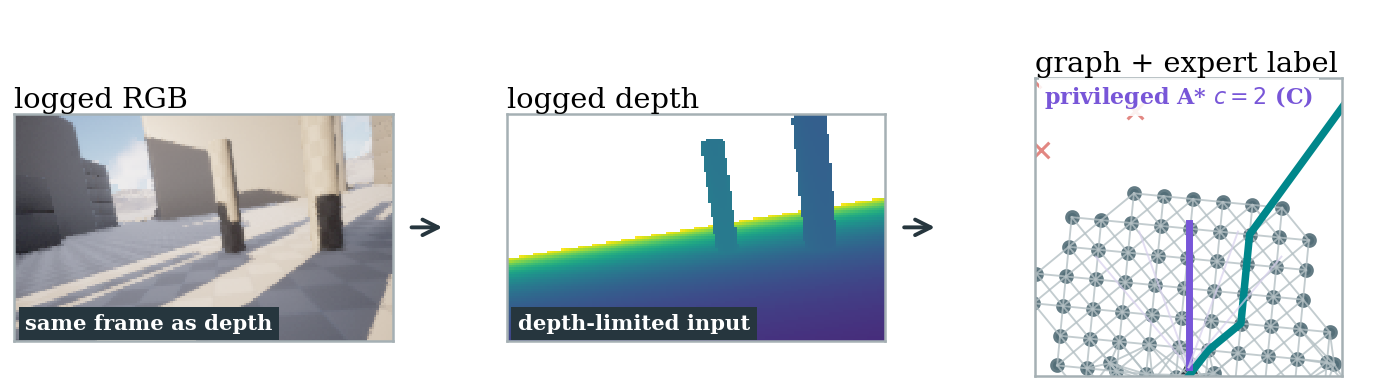
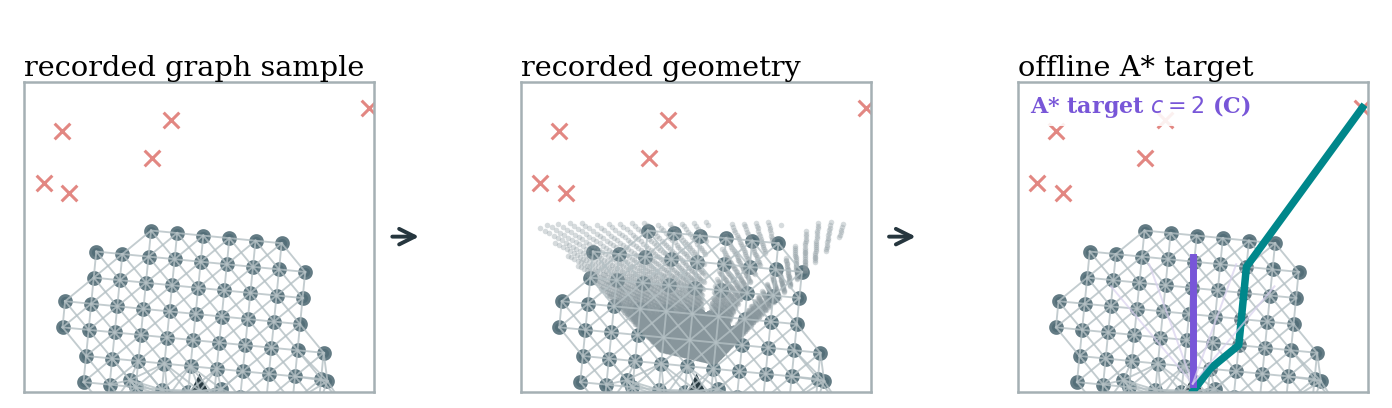
改进 GCN 训练数据图并补充真实点云与专家方向标签
- 将训练数据可视化从 RGB/深度截图调整为在线骨架、记录点云和专家方向标签的并列对照，突出部署输入与监督信号的关系。

- 为绘图脚本增加 ASCII PCD 解析、四元数姿态旋转和统一 XY 坐标范围，确保点云与拓扑图在同一物理尺度下显示。

- 更新生成的训练数据图，保持输出尺寸、字体和论文排版兼容，并继续排除候选图和运行时缓存。

diff --git a/paper/scalenav/pics/make_gcn_training_data_log.py b/paper/scalenav/pics/make_gcn_training_data_log.py
@@ -8,7 +8,6 @@ from pathlib import Path
 
 import matplotlib
 import numpy as np
-from PIL import Image
 
 matplotlib.use("Agg")
 import matplotlib.pyplot as plt
@@ -20,6 +19,7 @@ SESSION = REPO / "log_scalenav" / "session_20260902_082638_86"
 RGB_FILE = "rgb/rgb_66.ppm"
 DEPTH_FILE = "depth/depth_76.pgm"
 GRAPH_FILE = "graph/graph_55.json"
+POINTCLOUD_FILE = "pointcloud/pointcloud_131.pcd"
 TARGET_COLUMN = 2
 
 
@@ -49,6 +49,32 @@ def marker_points(graph: dict, name: str) -> np.ndarray:
     return np.asarray(values, dtype=float).reshape(-1, 3)
 
 
+def read_pcd(path: Path) -> np.ndarray:
+    """Read XYZ points from a logged ASCII PCD."""
+    points = []
+    data = False
+    with path.open(encoding="ascii", errors="ignore") as stream:
+        for line in stream:
+            if line.lower().startswith("data"):
+                data = True
+                continue
+            if not data:
+                continue
+            fields = line.split()
+            if len(fields) >= 3:
+                try:
+                    points.append((float(fields[0]), float(fields[1]), float(fields[2])))
+                except ValueError:
+                    pass
+    return np.asarray(points, dtype=float)
+
+
+def rotate_points(points: np.ndarray, q: list[float]) -> np.ndarray:
+    qx, qy, qz, qw = map(float, q)
+    t = 2.0 * np.cross(np.array([qx, qy, qz]), points)
+    return points + qw * t + np.cross(np.array([qx, qy, qz]), t)
+
+
 def main() -> None:
     events = read_events()
     timing = min(
@@ -67,15 +93,14 @@ def main() -> None:
                            1 - 2 * (qy * qy + qz * qz)))
     graph = json.loads((SESSION / GRAPH_FILE).read_text(encoding="utf-8"))
 
-    rgb = np.asarray(Image.open(SESSION / RGB_FILE).convert("RGB"))
-    depth = np.asarray(Image.open(SESSION / DEPTH_FILE), dtype=float) / 1000.0
-    shown_depth = np.ma.masked_where(depth >= 20.0, depth)
-
     nodes = body_view(marker_points(graph, "scalenav_skeleton_nodes"), origin, yaw)
     edge_points = body_view(marker_points(graph, "scalenav_skeleton_edges"), origin, yaw)
     edges = edge_points.reshape(-1, 2, 2)
     path = body_view(marker_points(graph, "scalenav_astar_topology_path"), origin, yaw)
     semantic = body_view(marker_points(graph, "scalenav_semantic_points"), origin, yaw)
+    cloud_cam = read_pcd(SESSION / POINTCLOUD_FILE)
+    cloud_world = rotate_points(cloud_cam, pose["orientation"]) + origin[None, :]
+    cloud = body_view(cloud_world, origin, yaw)
 
     plt.rcParams.update({
         "font.family": "serif",
@@ -85,47 +110,45 @@ def main() -> None:
         "figure.facecolor": "white",
         "savefig.facecolor": "white",
     })
-    fig, axes = plt.subplots(1, 3, figsize=(3.48, 0.98),
-                             gridspec_kw={"wspace": 0.30})
+    fig, axes = plt.subplots(1, 3, figsize=(3.48, 1.02),
+                             gridspec_kw={"wspace": 0.34})
     fig.subplots_adjust(left=0.01, right=0.99, top=0.80, bottom=0.04)
 
-    axes[0].imshow(rgb, interpolation="nearest")
-    axes[0].set_title("logged RGB", fontsize=5.2, loc="left", pad=1)
-    axes[0].text(0.03, 0.05, "same frame as depth", transform=axes[0].transAxes,
-                 fontsize=3.8, color="white", fontweight="bold",
-                 bbox=dict(facecolor="#26363E", edgecolor="none", pad=1.2))
+    def base(ax):
+        for edge in edges:
+            ax.plot(edge[:, 0], edge[:, 1], color="#B4C0C4", lw=0.34, alpha=0.8)
+        ax.scatter(nodes[:, 0], nodes[:, 1], s=2.7, color="#526D77", alpha=0.9)
+        if len(semantic):
+            ax.scatter(semantic[:, 0], semantic[:, 1], marker="x", s=8,
+                       color="#D6544D", lw=0.55, alpha=0.7)
+        ax.scatter(0, 0, marker="^", s=21, color="#273941", edgecolors="white", lw=0.3)
+        ax.set_xlim(-22, 22)
+        ax.set_ylim(-1, 38)
+        ax.set_aspect("equal", adjustable="box")
 
-    axes[1].imshow(shown_depth, cmap="viridis", vmin=0.0, vmax=20.0,
-                   interpolation="nearest")
-    axes[1].set_title("logged depth", fontsize=5.2, loc="left", pad=1)
-    axes[1].text(0.03, 0.05, "depth-limited input", transform=axes[1].transAxes,
-                 fontsize=3.8, color="white", fontweight="bold",
-                 bbox=dict(facecolor="#26363E", edgecolor="none", pad=1.2))
+    base(axes[0])
+    axes[0].set_title("recorded graph sample", fontsize=5.2, loc="left", pad=1)
 
-    ax = axes[2]
-    for edge in edges:
-        ax.plot(edge[:, 0], edge[:, 1], color="#B4C0C4", lw=0.34, alpha=0.8)
-    ax.scatter(nodes[:, 0], nodes[:, 1], s=2.7, color="#526D77", alpha=0.9)
-    if len(semantic):
-        ax.scatter(semantic[:, 0], semantic[:, 1], marker="x", s=8,
-                   color="#D6544D", lw=0.55, alpha=0.7)
+    base(axes[1])
+    if len(cloud):
+        axes[1].scatter(cloud[:, 0], cloud[:, 1], s=1.0, color="#88969C", alpha=0.34,
+                        linewidths=0, zorder=1)
+    axes[1].set_title("recorded geometry", fontsize=5.2, loc="left", pad=1)
+
+    base(axes[2])
     if len(path) > 1:
-        ax.plot(path[:, 0], path[:, 1], color="#00878B", lw=1.35)
-    ax.scatter(0, 0, marker="^", s=21, color="#273941", edgecolors="white", lw=0.3)
+        axes[2].plot(path[:, 0], path[:, 1], color="#00878B", lw=1.35)
     offsets = np.deg2rad([40, 20, 0, -20, -40])
     for column, angle in enumerate(offsets):
         end = np.array([-16 * np.sin(angle), 16 * np.cos(angle)])
-        ax.plot([0, end[0]], [0, end[1]],
-                color="#7856D8" if column == TARGET_COLUMN else "#D8D0ED",
-                lw=1.25 if column == TARGET_COLUMN else 0.35,
-                alpha=1.0 if column == TARGET_COLUMN else 0.7)
-    ax.text(-16.0, 29.2, r"privileged A* $c=2$ (C)", fontsize=4.0,
-            color="#7856D8", fontweight="bold", ha="left",
-            bbox=dict(facecolor="white", edgecolor="none", alpha=0.88, pad=1.0))
-    ax.set_title("graph + expert label", fontsize=5.2, loc="left", pad=1)
-    ax.set_xlim(-17, 17)
-    ax.set_ylim(-1, 32)
-    ax.set_aspect("equal", adjustable="box")
+        axes[2].plot([0, end[0]], [0, end[1]],
+                     color="#7856D8" if column == TARGET_COLUMN else "#D8D0ED",
+                     lw=1.25 if column == TARGET_COLUMN else 0.35,
+                     alpha=1.0 if column == TARGET_COLUMN else 0.7)
+    axes[2].text(-20.5, 34.0, r"A* target $c=2$ (C)", fontsize=4.0,
+                 color="#7856D8", fontweight="bold", ha="left",
+                 bbox=dict(facecolor="white", edgecolor="none", alpha=0.88, pad=1.0))
+    axes[2].set_title("offline A* target", fontsize=5.2, loc="left", pad=1)
 
     for ax in axes:
         ax.set_xticks([])
